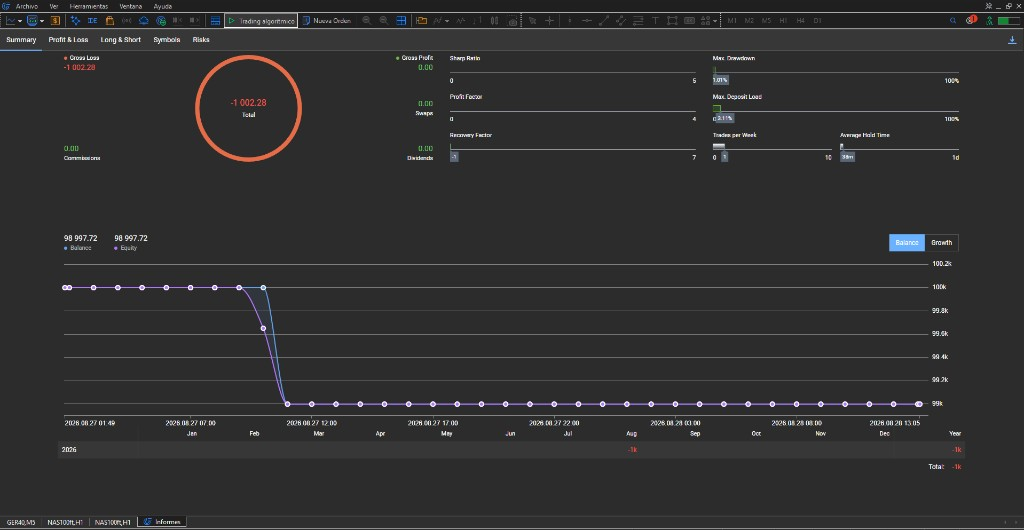
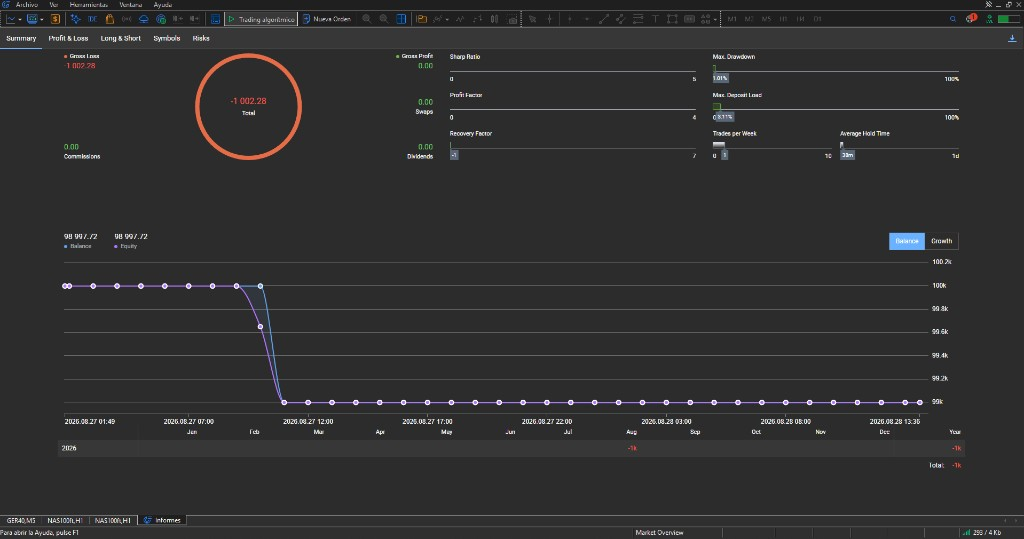
web(tevsys): evidencia informe mt5 Londres HD captures

diff --git a/docs/CHANGELOG-TEVSYS.md b/docs/CHANGELOG-TEVSYS.md
@@ -6,6 +6,14 @@ Registro completo de cambios aplicados en la landing de tevsys (base Odyssey The
 
 ---
 
+## Sesión 28 ago 2026 — Informe MT5 Londres capturas HD
+
+**Qué:** sustituidas 5 PNG borrosas por capturas nativas MT5 (Summary · P&L · Long&Short · Symbols · Risks) · `?v=20260828hd`.
+
+**Commit:** `web(tevsys): evidencia informe mt5 Londres HD captures`
+
+---
+
 ## Sesión 28 ago 2026 — Precisión: puente informe 5 pestañas
 
 **Qué:** bajo atribución hero 100k — *Informe MT5 de la misma sesión — 5 pestañas en Evidencia →*.
